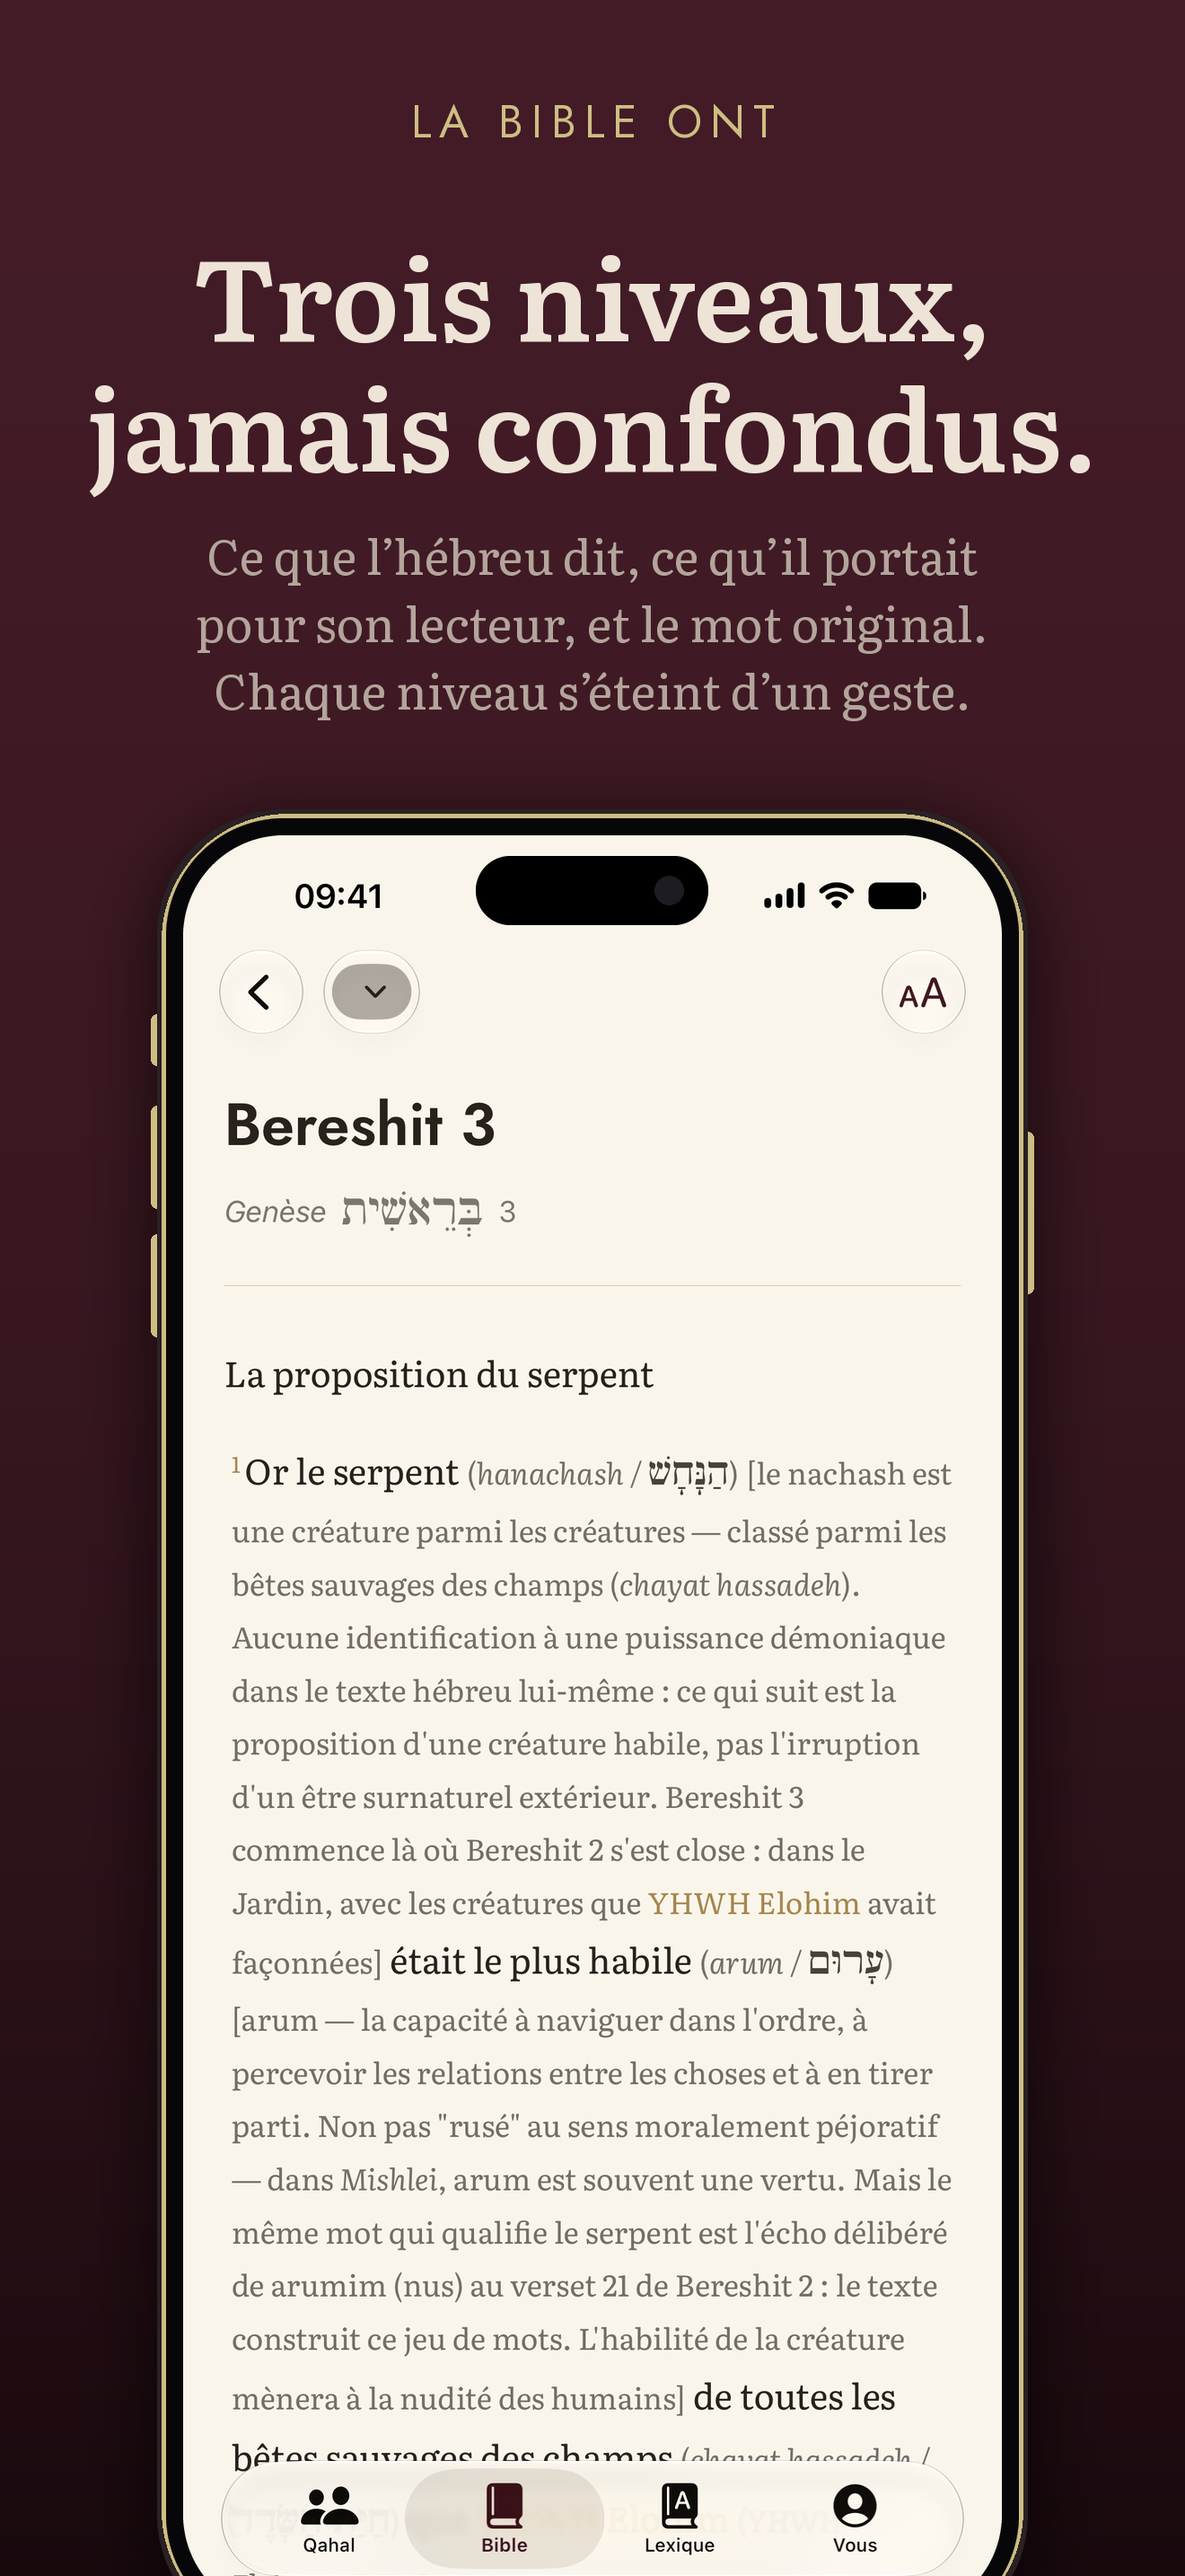
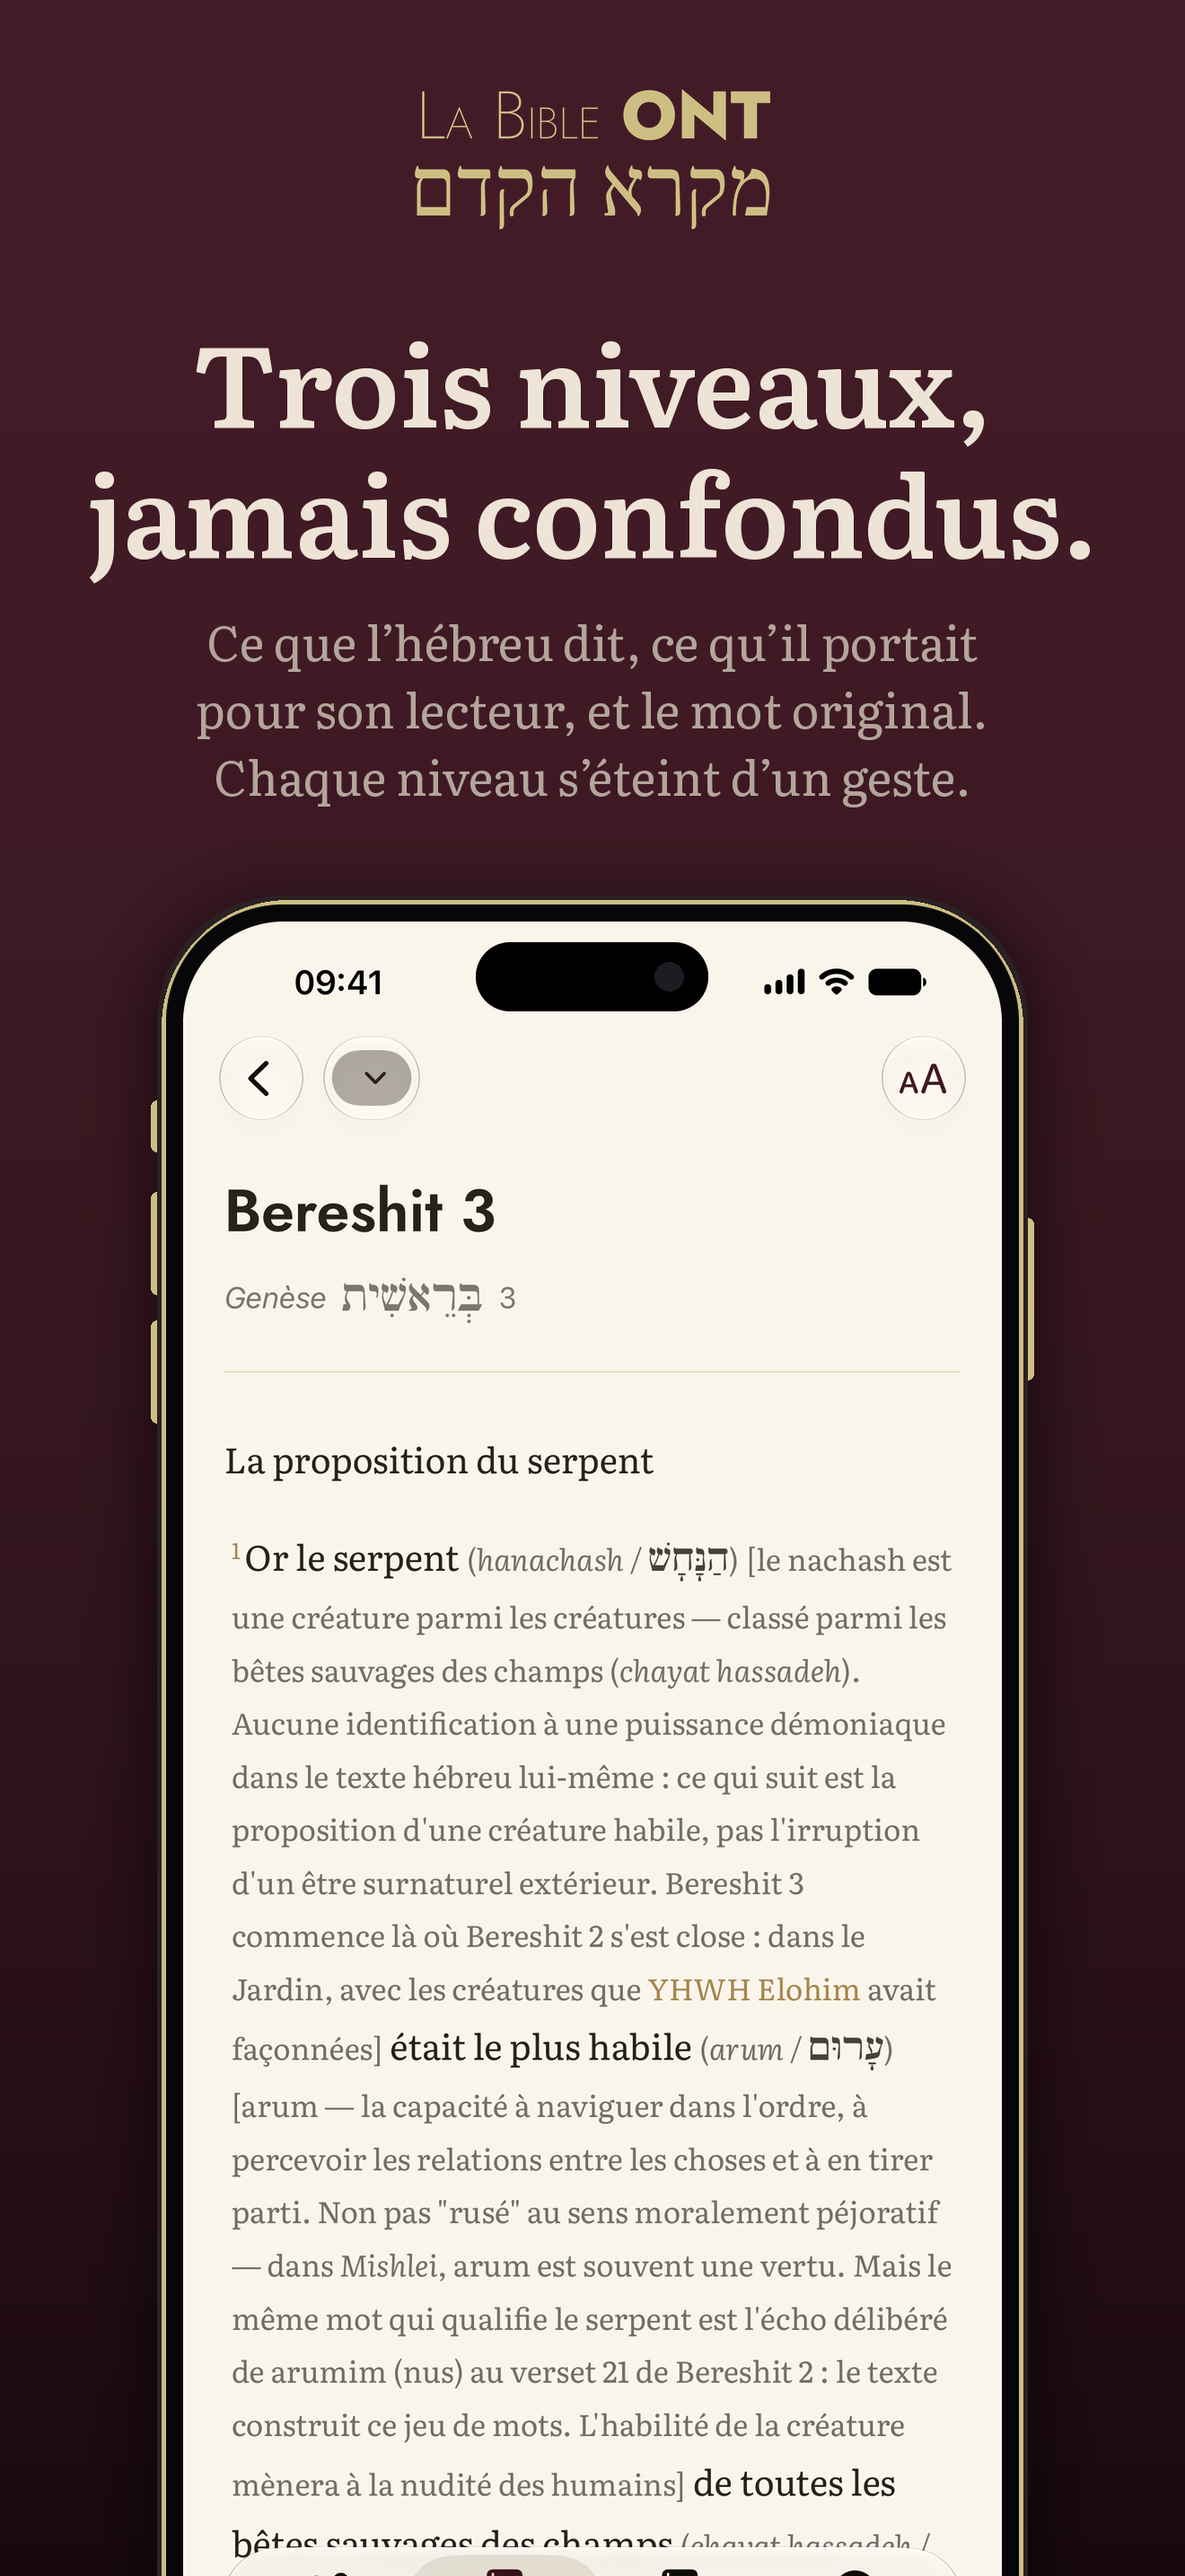
Poser le wordmark sur les affiches, et brancher la fiche sur le dépôt
« LA BIBLE ONT » était composé en Jost interlettré. Ce n'est pas la
marque, c'est une imitation de la marque : le wordmark porte le titre
**et** מקרא הקדם, dans un dessin qu'on ne reconstitue pas en espaçant
une police. Il vient du dépôt du site, où il fait foi.

Rastérisé à chaque composition, pas committé en PNG à côté : deux
fichiers pour un dessin, c'est une divergence que personne ne verra,
puisque le PNG est celui qui part à l'App Store. `qlmanage` est le seul
rastériseur SVG présent sur un Mac sans rien installer, et le script est
déjà lié à macOS par `simctl`. Il rend sur un fond blanc opaque : la
transparence se reconstruit depuis la distance au blanc, exact ici parce
que le dessin est un aplat d'or.

Le SVG ne va pas dans `app/Resources`, qui part en bloc dans le
binaire — l'app ne le lit jamais, et 23 Ko dans ce que les lecteurs
téléchargent pour une image de vitrine, non.

## La fiche n'était branchée nulle part

`fiche.py` savait déjà téléverser les captures, et rien ne l'appelait :
il fallait avoir les trois secrets Apple sous la main. La fiche se
remplissait donc quand quelqu'un y pensait, et c'est la seconde moitié
de l'explication des captures périmées — `captures.sh` était cassé, et
même réparé il n'aurait rien publié.

Un workflow **Fiche** le déclenche à la demande, avec les clés du dépôt.
`workflow_dispatch` seul : une fiche poussée à chaque commit écraserait
un texte retouché entre temps dans l'interface d'Apple. Il ne soumet
[…]

Changed region(s): [[0.0621, 0.031, 0.9318, 1.0], [0.8076, 0.962, 0.8697, 1.0], [0.1242, 0.4965, 0.1553, 0.5586]]

diff --git a/.github/scripts/fiche.py b/.github/scripts/fiche.py
@@ -2,8 +2,17 @@
 
 """Remplit la fiche App Store, et y téléverse les captures.
 
+Se lance par le workflow **Fiche**, qui porte les clés :
+
+    gh workflow run fiche.yml -f captures=true
+
+ou à la main, si on les a sous le coude :
+
     ASC_KEY_ID=… ASC_ISSUER_ID=… ASC_PRIVATE_KEY="$(cat AuthKey_….p8)" \\
-      ./.github/scripts/fiche.py [--captures] [--sec]
+      ./.github/scripts/fiche.py --captures
+
+Rejouable : il reprend la version en préparation, la crée si aucune n'attend,
+et remplace les jeux de captures au lieu de les empiler.
 
 ## Pourquoi automatiser une fiche qu'on ne remplit qu'une fois
 
@@ -30,18 +39,21 @@ faire à la main, et sans elles la soumission est refusée.
 
 import argparse
 import hashlib
-import json
-import os
 import pathlib
+import re
 import sys
-from datetime import datetime, timedelta, timezone
 
-import jwt
 import requests
 
-API = "https://api.appstoreconnect.apple.com/v1"
-BUNDLE = "com.labibleont.ONT"
-CAPTURES = pathlib.Path(__file__).resolve().parents[2] / "app" / "Captures"
+from asc import API, Client, application
+
+RACINE = pathlib.Path(__file__).resolve().parents[2]
+CAPTURES = RACINE / "app" / "Captures"
+PROJET = RACINE / "app" / "project.yml"
+
+# Les états d'une version qu'on a encore le droit de modifier. Repris de
+# `soumettre.py`, qui les tient pour la même raison.
+MODIFIABLES = ("PREPARE_FOR_SUBMISSION", "DEVELOPER_REJECTED", "REJECTED")
 
 # Les deux tailles qu'Apple exige, et le nom qu'il leur donne. Il redimensionne
 # lui-même pour les écrans plus petits : ces deux-là suffisent.
@@ -81,52 +93,56 @@ FICHE = {
 }
 
 
-def jeton() -> str:
-    maintenant = datetime.now(timezone.utc)
-    return jwt.encode(
-        {
-            "iss": os.environ["ASC_ISSUER_ID"],
-            "iat": int(maintenant.timestamp()),
-            "exp": int((maintenant + timedelta(minutes=20)).timestamp()),
-            "aud": "appstoreconnect-v1",
-        },
-        os.environ["ASC_PRIVATE_KEY"],
-        algorithm="ES256",
-        headers={"kid": os.environ["ASC_KEY_ID"]},
+def numero_du_projet() -> str:
+    """La version publique, lue là où elle fait déjà foi.
+
+    `CFBundleShortVersionString` d'`app/project.yml` est le numéro que porte le
+    binaire ; c'est lui qu'App Store Connect doit trouver en face. L'écrire une
+    seconde fois ici, c'est se garantir qu'un jour la fiche préparera une
+    version que personne ne construit.
+    """
+    trouve = re.search(
+        r'CFBundleShortVersionString:\s*"([^"]+)"', PROJET.read_text(encoding="utf8")
     )
+    if not trouve:
+        raise SystemExit(f"CFBundleShortVersionString introuvable dans {PROJET}")
+    return trouve.group(1)
 
 
-class Client:
-    def __init__(self) -> None:
-        self.s = requests.Session()
-        self.s.headers["Authorization"] = f"Bearer {jeton()}"
+def version_a_remplir(c: Client, app: str) -> str:
+    """La version en préparation — reprise si elle existe, créée sinon.
 
-    def _verifier(self, r, quoi: str):
-        if r.status_code >= 400:
-            raise SystemExit(f"{r.status_code} sur {quoi} :\n{r.text}")
-        return r.json() if r.content else {}
+    Une version déjà en vente n'est plus modifiable. Tant que la suivante
+    n'existe pas, la fiche n'a nulle part où se poser, et la chaîne s'arrêtait
+    ici sur un message demandant d'aller cliquer dans l'interface web.
+    `soumettre.py` avait déjà tranché dans l'autre sens pour la même raison.
+    """
+    toutes = c.get(f"apps/{app}/appStoreVersions", limit=20)["data"]
+    for v in toutes:
+        if v["attributes"]["appStoreState"] in MODIFIABLES:
+            print(
+                f"  version {v['attributes']['versionString']} reprise "
+                f"({v['attributes']['appStoreState']})"
+            )
+            return v["id"]
 
-    def get(self, chemin: str, **params) -> dict:
-        return self._verifier(
-            self.s.get(f"{API}/{chemin}", params=params, timeout=30), chemin
-        )
-
-    def patch(self, chemin: str, corps: dict) -> dict:
-        return self._verifier(
-            self.s.patch(f"{API}/{chemin}", json=corps, timeout=30), chemin
-        )
-
-    def post(self, chemin: str, corps: dict) -> dict:
-        return self._verifier(
-            self.s.post(f"{API}/{chemin}", json=corps, timeout=60), chemin
-        )
-
-
-def app_id(c: Client) -> str:
-    apps = c.get("apps", **{"filter[bundleId]": BUNDLE})["data"]
-    if not apps:
-        raise SystemExit(f"Aucune app pour {BUNDLE} dans ce compte.")
-    return apps[0]["id"]
+    numero = numero_du_projet()
+    cree = c.post(
+        "appStoreVersions",
+        {
+            "data": {
+                "type": "appStoreVersions",
+                "attributes": {
+                    "platform": "IOS",
+                    "versionString": numero,
+                    "releaseType": "AFTER_APPROVAL",
+                },
+                "relationships": {"app": {"data": {"type": "apps", "id": app}}},
+            }
+        },
+    )
+    print(f"  version {numero} créée")
+    return cree["data"]["id"]
 
 
 def televerser_captures(c: Client, version: str) -> None:
@@ -137,15 +153,31 @@ def televerser_captures(c: Client, version: str) -> None:
     pousse les octets, puis on **valide** avec l'empreinte MD5. Sans cette
     dernière étape, l'image reste en attente et n'apparaît nulle part — sans
     qu'aucune erreur ne le dise.
+
+    ## Pourquoi on supprime avant d'envoyer
+
+    Une version en préparation **hérite des captures de la précédente**. Créer
+    un jeu pour un format qui en a déjà un ne le remplace pas : selon les cas
+    Apple refuse, ou empile un second jeu et sert l'ancien. Le script partait
+    du cas de la 1.0, où la fiche était vierge, et ne pouvait donc pas
+    fonctionner deux fois — ce qui est précisément ce qu'on lui demande, les
+    captures se refaisant à chaque changement visuel.
     """
     localisations = c.get(f"appStoreVersions/{version}/appStoreVersionLocalizations")
     loc = localisations["data"][0]["id"]
+
+    existants = c.get(f"appStoreVersionLocalizations/{loc}/appScreenshotSets")["data"]
 
     for dossier, format_apple in FORMATS.items():
         images = sorted((CAPTURES / dossier).glob("*.png"))
         if not images:
             print(f"  {dossier} : aucune capture, sauté")
             continue
+
+        for ancien in existants:
+            if ancien["attributes"]["screenshotDisplayType"] == format_apple:
+                c.delete(f"appScreenshotSets/{ancien['id']}")
+                print(f"  {dossier} : ancien jeu supprimé")
 
         jeu = c.post(
             "appScreenshotSets",
@@ -216,19 +248,11 @@ def main() -> None:
     options = arguments.parse_args()
 
     c = Client()
-    app = app_id(c)
+    app = application(c)
     print(f"  app {app}")
 
     # Le texte, sur la localisation française de la version en préparation.
-    versions = c.get(
-        f"apps/{app}/appStoreVersions",
-        **{"filter[appStoreState]": "PREPARE_FOR_SUBMISSION", "limit": 1},
-    )["data"]
-    if not versions:
-        raise SystemExit(
-            "Aucune version en préparation. Elle se crée dans App Store Connect."
-        )
-    version = versions[0]["id"]
+    version = version_a_remplir(c, app)
 
     loc = c.get(f"appStoreVersions/{version}/appStoreVersionLocalizations")["data"][0]
     c.patch(

diff --git a/scripts/vitrine.py b/scripts/vitrine.py
@@ -30,7 +30,9 @@ Les polices du dépôt, `app/Resources/Fonts` — pas celles de la machine. Une
 affiche qui se compose ici et pas dans la CI n'est pas reproductible.
 """
 
+import subprocess
 import sys
+import tempfile
 from pathlib import Path
 
 from PIL import Image, ImageDraw, ImageFilter, ImageFont
@@ -38,6 +40,10 @@ from PIL import Image, ImageDraw, ImageFilter, ImageFont
 RACINE = Path(__file__).resolve().parent.parent
 POLICES = RACINE / "app/Resources/Fonts"
 CAPTURES = RACINE / "app/Captures"
+# Hors de `app/Resources`, qui part en bloc dans le binaire : l'app ne lit
+# jamais le wordmark, et il n'a rien à faire dans ce que les lecteurs
+# téléchargent.
+WORDMARK = RACINE / "app/Marque/wordmark.svg"
 
 # La palette, relevée sur `ONTColors.swift`. Le bordeaux et l'or viennent du
 # logo ; la nuit est le fond de `ontbible.com`. Aucune teinte inventée ici.
@@ -78,6 +84,51 @@ def police(nom, taille):
     return ImageFont.truetype(str(POLICES / nom), taille)
 
 
+def marque(largeur_cible):
+    """Le wordmark de la marque, rastérisé depuis son SVG.
+
+    ## Pourquoi pas « LA BIBLE ONT » composé en Jost
+
+    Parce que ce n'est pas la marque, c'est une imitation de la marque. Le
+    wordmark porte le titre **et** מקרא הקדם, dans un dessin qui ne se
+    reconstitue pas en interlettrant une police.
+
+    ## Pourquoi on rastérise à chaque composition
+
+    Le SVG est la seule source. Committer aussi le PNG, c'est deux fichiers
+    qui divergeront le jour où le dessin bouge — et personne ne verra la
+    divergence, puisque le PNG est celui qui part à l'App Store.
+
+    ## Ce que fait `qlmanage`, et ce qu'il faut réparer derrière
+
+    C'est le seul rastériseur SVG présent sur un Mac sans rien installer, et
+    le script est déjà lié à macOS par `simctl`. Il rend en carré, sur un
+    **fond blanc opaque** : on reconstruit la transparence depuis la distance
+    au blanc, ce qui est exact ici parce que le dessin est un aplat d'or —
+    `pixel = blanc·(1−α) + or·α` s'inverse sans perte sur le bleu, la voie où
+    l'or s'écarte le plus du blanc.
+    """
+    with tempfile.TemporaryDirectory() as dossier:
+        subprocess.run(
+            ["qlmanage", "-t", "-s", "2400", "-o", dossier, str(WORDMARK)],
+            capture_output=True,
+            check=True,
+        )
+        rendus = list(Path(dossier).glob("*.png"))
+        if not rendus:
+            sys.exit(f"qlmanage n'a rien rendu pour {WORDMARK}")
+        plat = Image.open(rendus[0]).convert("RGB")
+
+    ecart = 255 - OR[2]
+    alpha = plat.split()[2].point(lambda b: min(255, round((255 - b) * 255 / ecart)))
+    dessin = Image.new("RGBA", plat.size, OR + (0,))
+    dessin.putalpha(alpha)
+    dessin = dessin.crop(alpha.getbbox())
+
+    hauteur = round(largeur_cible * dessin.height / dessin.width)
+    return dessin.resize((largeur_cible, hauteur), Image.LANCZOS)
+
+
 def fond(largeur, hauteur):
     """Le dégradé bordeaux → nuit, du haut vers le bas.
 
@@ -94,19 +145,6 @@ def fond(largeur, hauteur):
         t = t * t
         dessin.point((0, y), tuple(round(a + (b - a) * t) for a, b in zip(BORDEAUX, NUIT)))
     return colonne.resize((largeur, hauteur), Image.BICUBIC)
-
-
-def tracer(dessin, xy, texte, fonte, couleur, interlettre):
-    """Un texte à interlettrage — PIL ne sait pas l'espacer tout seul."""
-    x, y = xy
-    for caractere in texte:
-        dessin.text((x, y), caractere, font=fonte, fill=couleur)
-        x += dessin.textlength(caractere, font=fonte) + interlettre
-    return x - interlettre - xy[0]
-
-
-def largeur_suivie(dessin, texte, fonte, interlettre):
-    return sum(dessin.textlength(c, font=fonte) for c in texte) + interlettre * (len(texte) - 1)
 
 
 def ajuster(dessin, lignes, nom_police, corps_max, largeur_max):
@@ -307,19 +345,16 @@ def affiche(chemin_capture, titre, phrase, cadre):
     # l'iPad n'ont pas la même proportion, et un corps de texte réglé sur la
     # hauteur sortirait deux fois plus gros sur l'un que sur l'autre.
     marge = round(L * 0.075)
-    f_marque = police("Jost-Regular.ttf", round(L * 0.038))
     f_titre, corps_titre = ajuster(
         dessin, titre, "Literata-SemiBold.ttf", round(L * 0.103), L * 0.86
     )
     f_phrase = police("Literata-Regular.ttf", round(L * 0.040))
-    interlettre = round(L * 0.038 * 0.18)
 
     y = marge
 
-    marque = "LA BIBLE ONT"
-    largeur_marque = largeur_suivie(dessin, marque, f_marque, interlettre)
-    tracer(dessin, ((L - largeur_marque) / 2, y), marque, f_marque, OR, interlettre)
-    y += round(L * 0.038 * 1.2) + round(L * 0.055)
+    signature = marque(round(L * 0.30))
+    toile.alpha_composite(signature, ((L - signature.width) // 2, y))
+    y += signature.height + round(L * 0.055)
 
     hauteur_ligne = round(corps_titre * 1.16)
     for ligne in titre:

diff --git a/.github/scripts/asc.py b/.github/scripts/asc.py
@@ -89,6 +89,14 @@ class Client:
             raise SystemExit(f"{r.status_code} sur {chemin} :\n{detailler(r)}")
         return r.json() if r.content else {}
 
+    def delete(self, chemin: str) -> None:
+        """404 est toléré : l'objet qu'on voulait absent l'est déjà."""
+        r = self.session.delete(f"{API}/{chemin}", timeout=30)
+        if r.status_code == 404:
+            return
+        if r.status_code >= 400:
+            raise SystemExit(f"{r.status_code} sur {chemin} :\n{detailler(r)}")
+
 
 def application(client: Client) -> str:
     """L'identifiant de l'app, depuis son bundle."""
